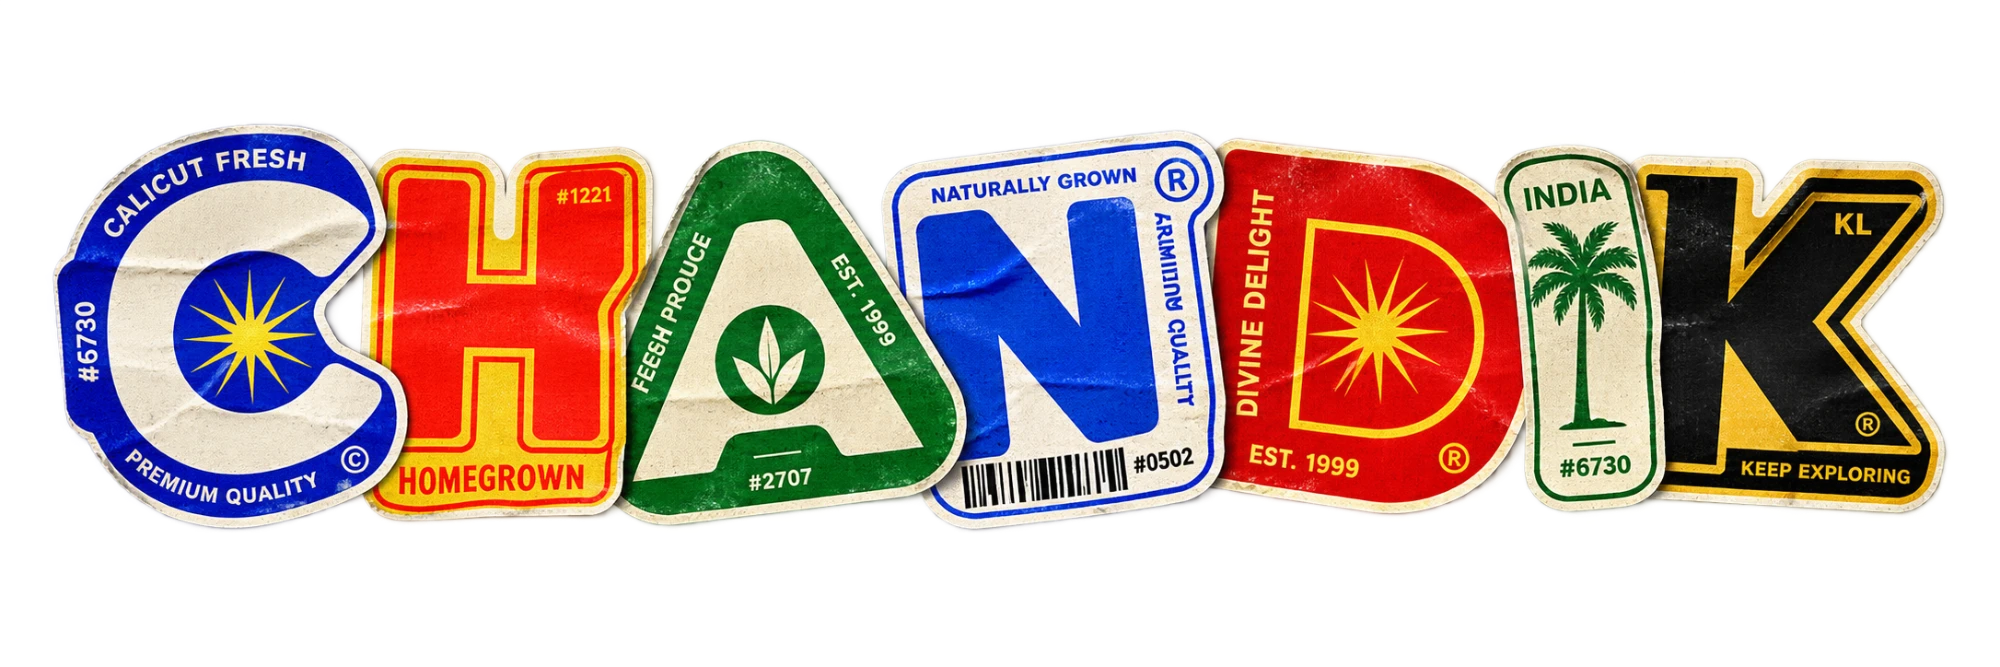
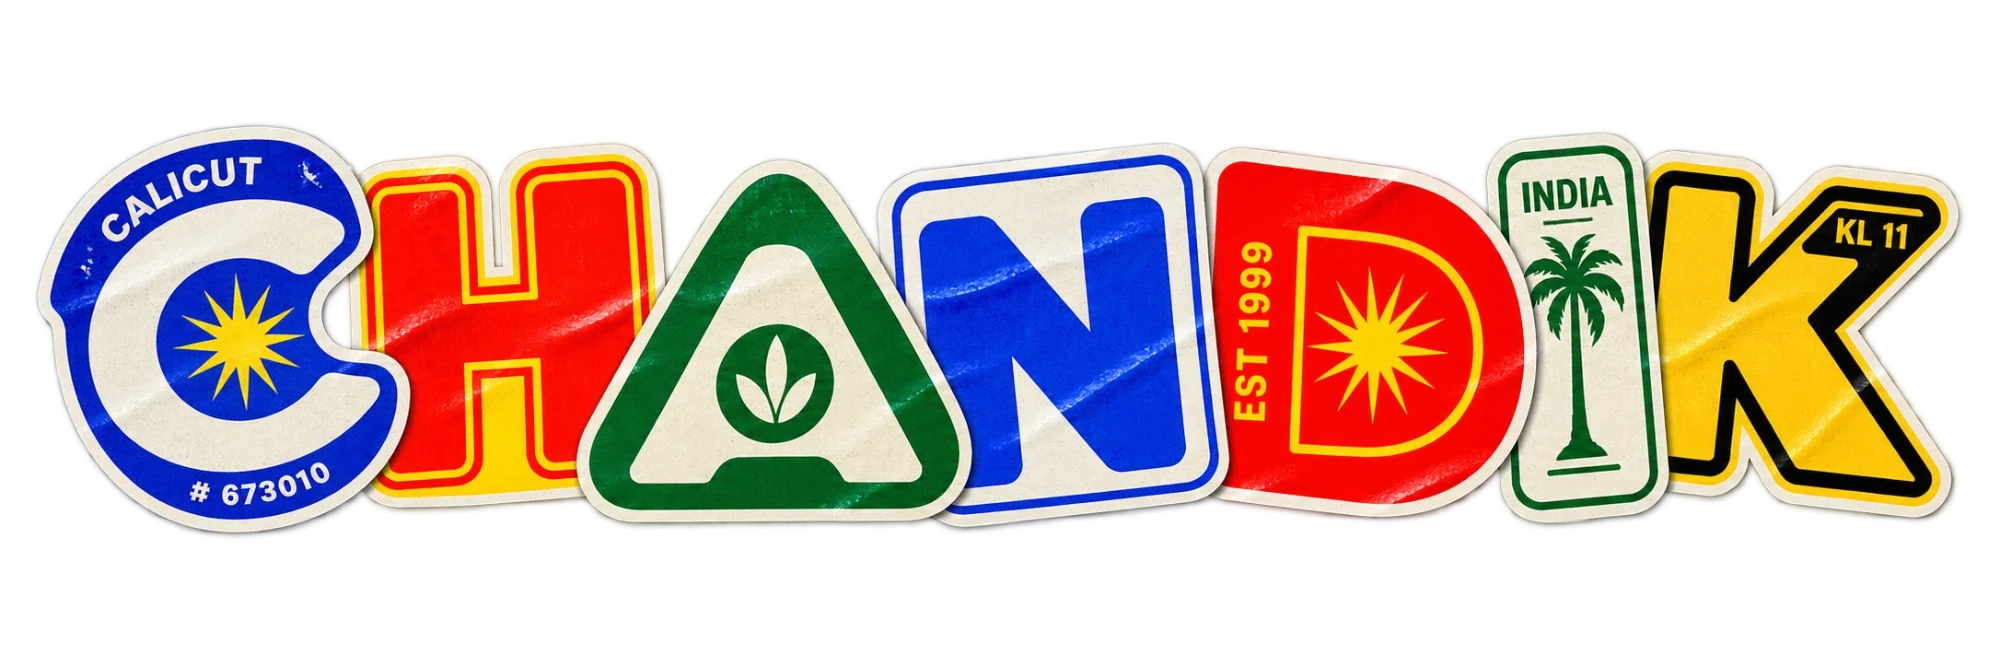
Dark footer with sticker signature; new homepage sticker

diff --git a/assets/css/styles.css b/assets/css/styles.css
@@ -27,6 +27,7 @@
   --c-accent:      79 79 255;     /* #4F4FFF — accent: links, focus, highlights */
   --c-deep-blue:   27 55 177;     /* #1B37B1 — homepage intro + Get in touch */
   --c-on-dark:     255 255 255;
+  --c-footer:      17 17 17;      /* #111111 — footer background */
 
   /* Work group colours — used for group headings and hover text */
   --c-samsung:     79 79 255;     /* #4F4FFF Samsung Design Delhi */
@@ -275,12 +276,17 @@ main { padding-top: var(--nav-h); }
 [data-include="nav"] { display: block; height: var(--nav-h); position: fixed; inset: 0 0 auto; }
 
 /* --- Footer (partials/footer.js) --- */
-.footer { border-top: 1px solid var(--line); background: rgb(var(--c-wash)); margin-top: var(--section-gap); }
+/* Dark footer on every page, with the CHANDIK sticker as a signature */
+.footer { background: rgb(var(--c-footer)); color: #fff; margin-top: var(--section-gap); }
 .footer__inner {
   display: flex; flex-wrap: wrap; align-items: center; justify-content: space-between;
-  gap: var(--space-5); padding-block: var(--space-7);
+  gap: var(--space-6); padding-block: var(--space-8);
 }
+.footer__signature img { width: clamp(160px, 18vw, 220px); height: auto; }
 .footer__links { display: flex; flex-wrap: wrap; gap: var(--space-2); }
+.footer .btn--primary { background: #fff; color: #000; }
+.footer .btn--secondary { color: #fff; border-color: rgb(255 255 255 / .25); }
+.footer .btn--secondary:hover { background: rgb(255 255 255 / .1); }
 
 /* --- Buttons --- */
 .btn {

diff --git a/partials/footer.js b/partials/footer.js
@@ -4,7 +4,7 @@ window.SITE_PARTIALS = window.SITE_PARTIALS || {};
 window.SITE_PARTIALS.footer = `
 <footer class="footer">
   <div class="container footer__inner">
-    <p class="eyebrow">Chandik A Chandran • 2026</p>
+    <a class="footer__signature" href="{{root}}index.html"><img src="{{root}}images/home/sticker-signature.webp" width="560" height="185" alt="Chandik A Chandran"></a>
     <div class="footer__links">
       <a class="btn btn--primary" href="{{root}}files/chandik-chandran-resume.pdf" target="_blank" rel="noopener">Download Resume</a>
       <a class="btn btn--secondary" href="https://www.instagram.com/chandik_/" target="_blank" rel="noopener">Instagram</a>
